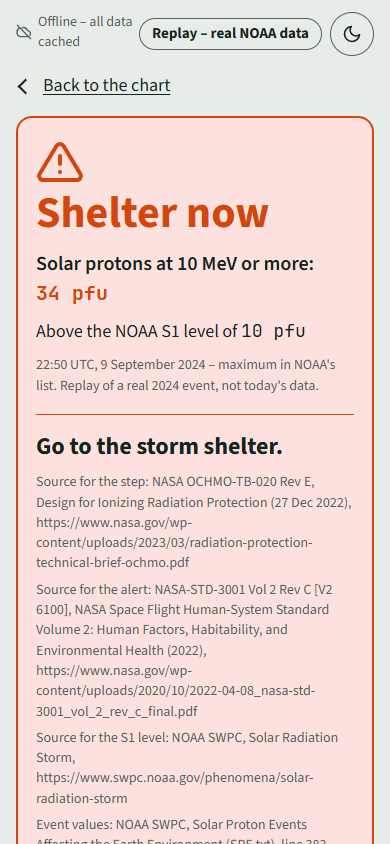
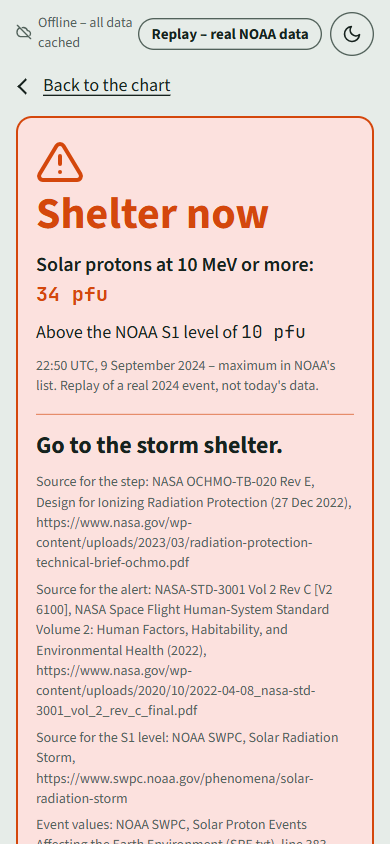
Fix the record: README, DESIGN.md and replay sources match the app (real feeds, demo numbers, one false-flag run, https event list, team roles)

diff --git a/spe.js b/spe.js
@@ -38,7 +38,8 @@
     const base = {
       ...shared(e),
       chip: "Replay – real NOAA data",
-      events: ev.sources.map((s) => `Event values: ${s.name}, ${s.url}`),
+      // Only https addresses go on screen; SPE.txt (ftp://) is named, and its URL stays in the event file.
+      events: ev.sources.map((s) => (s.url.startsWith("https://") ? `Event values: ${s.name}, ${s.url}` : `Event values: ${s.name}`)),
       source: "Source: NOAA GOES, through NOAA's solar proton event list",
     };
     return [

diff --git a/index.html b/index.html
@@ -492,7 +492,7 @@ fieldset { border: 0; padding: 0; margin: 28px 0 0; min-width: 0; }
 <script src="trend.js?v=076b8d7565"></script>
 <script src="projection.js?v=1eb08e8dd9"></script>
 <script src="maths.js?v=a15139ff07"></script>
-<script src="spe.js?v=0183c8d97e"></script>
+<script src="spe.js?v=cdf73caa73"></script>
 <script src="reaction.js?v=0c373ca889"></script>
 <script src="store.js?v=986788a7d2"></script>
 <script src="app.js?v=bedf23bbb4"></script>
